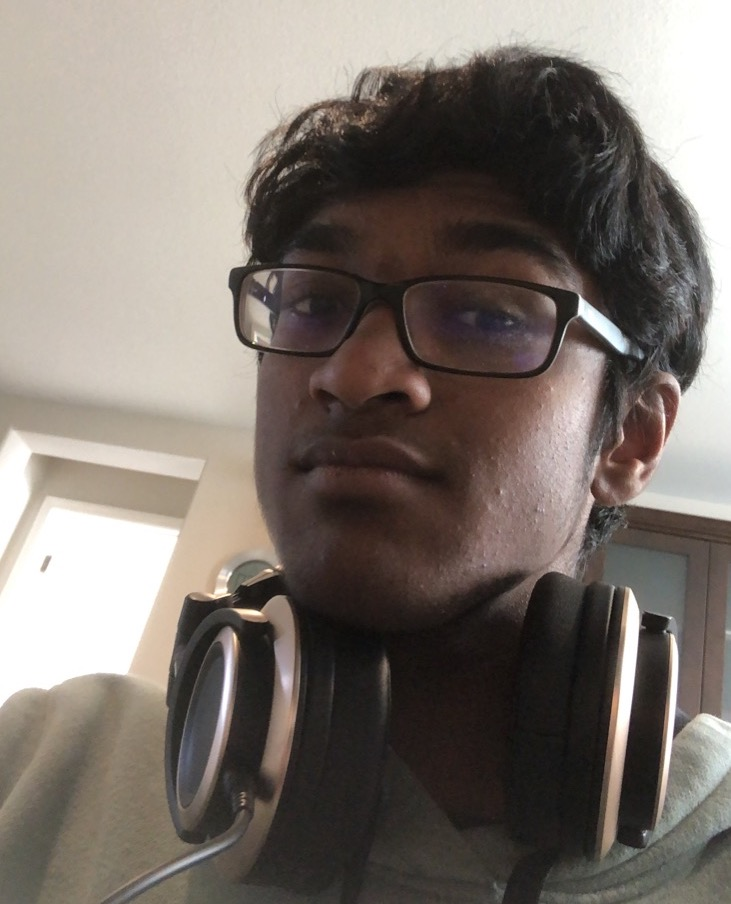
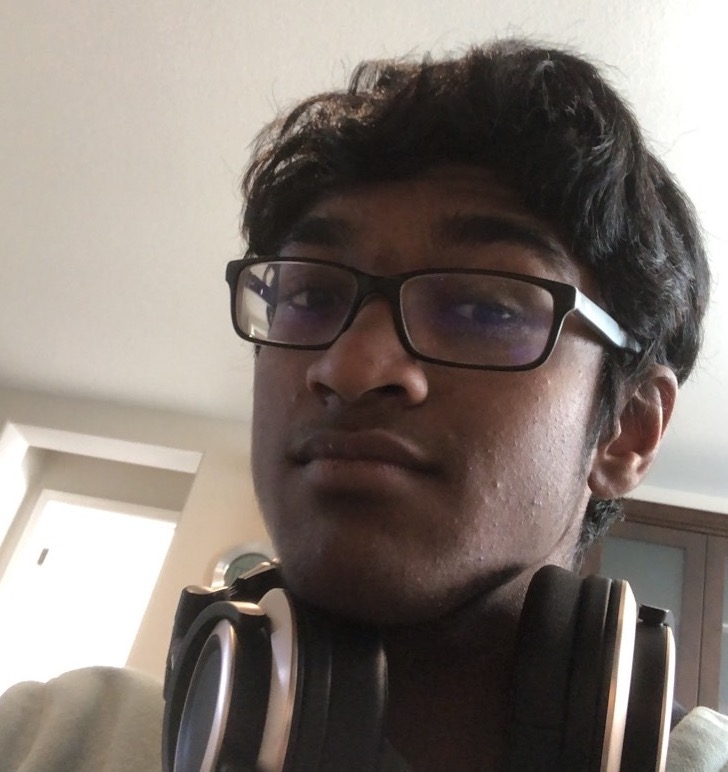
Some more image changes

diff --git a/public/stylesheets/other/index.css b/public/stylesheets/other/index.css
@@ -20,7 +20,11 @@
 }
 
 .dev-image {
-  width: 40%;
-  height: 40%;
+  width: 100%;
+  height: 100%;
+  object-fit: cover;
+}
+
+.dev-photos {
   border-radius: 15px;
 }
